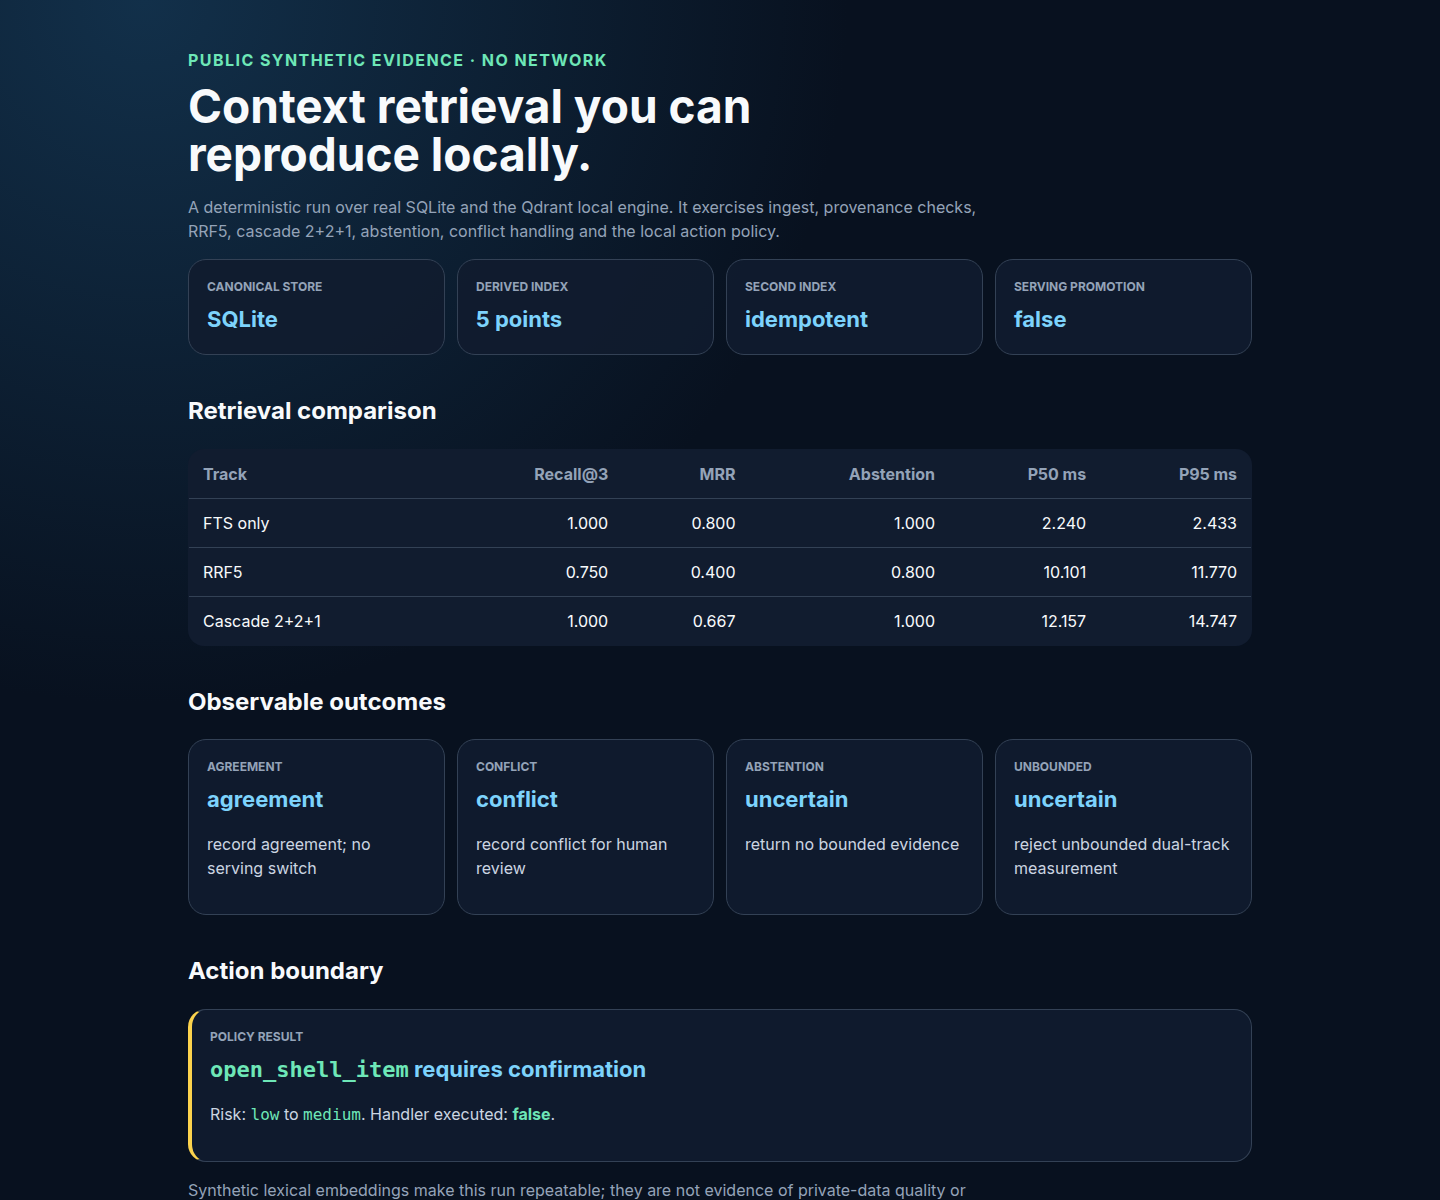
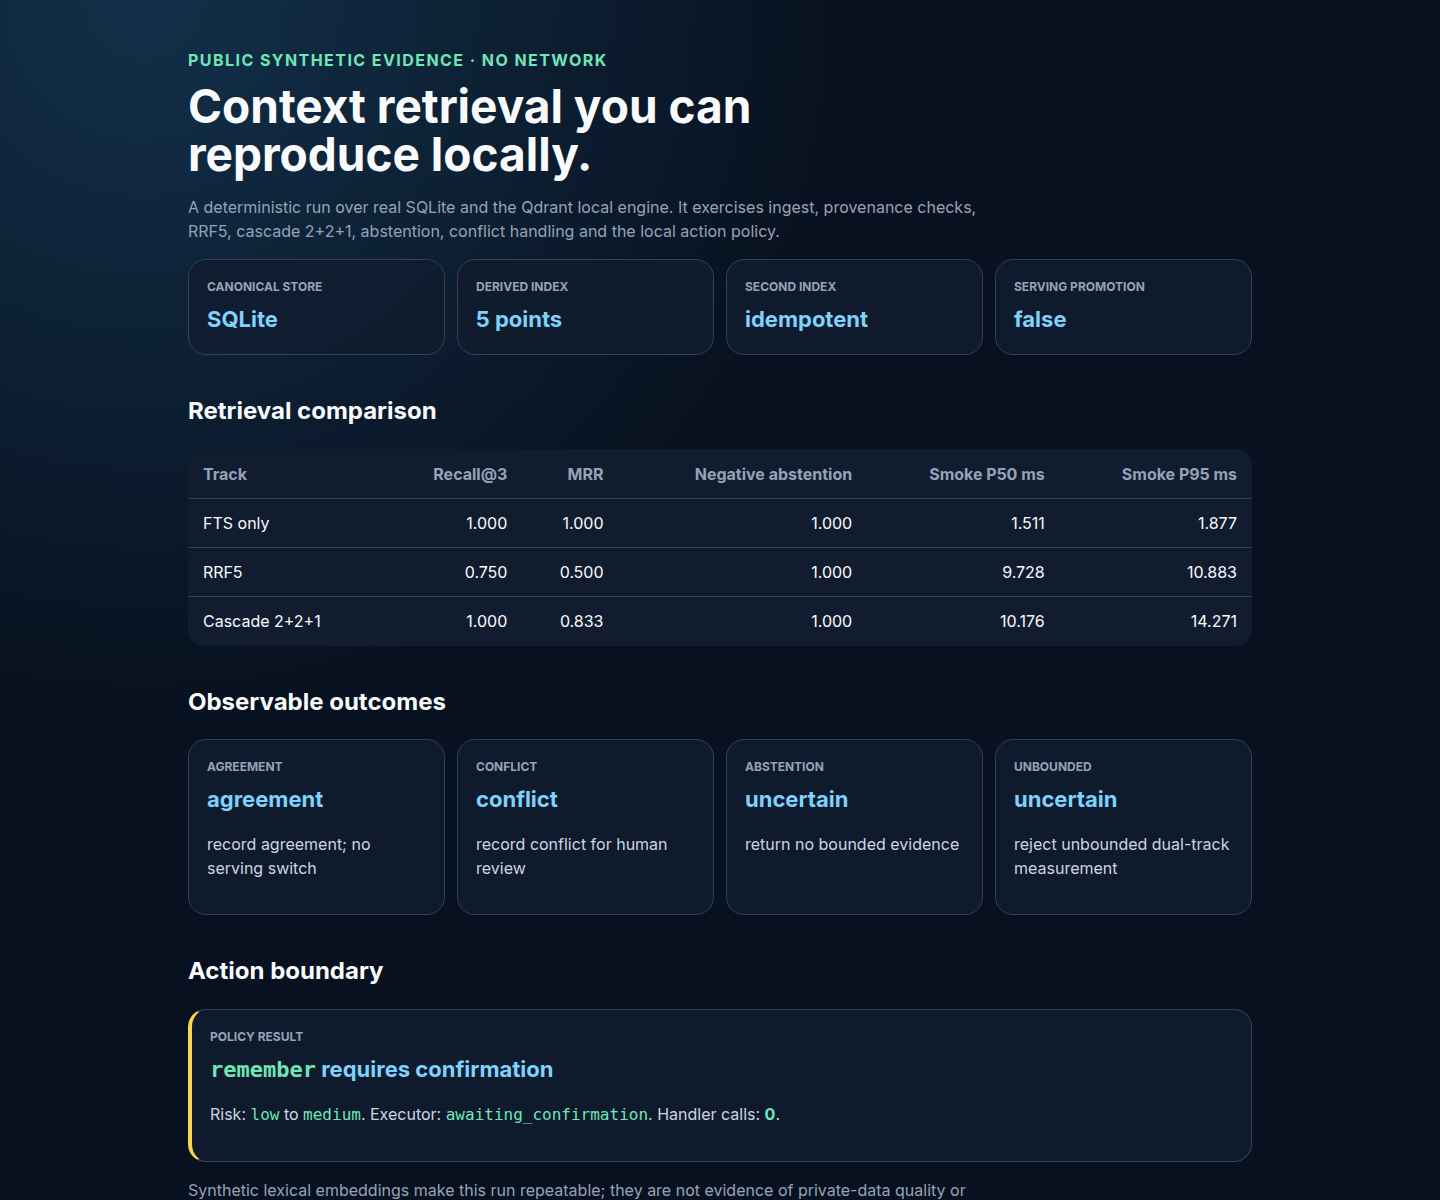
Regenerate reviewed portfolio evidence

diff --git a/docs/evaluation/context-evidence-v1/report.html b/docs/evaluation/context-evidence-v1/report.html
@@ -50,20 +50,22 @@
   <h2>Retrieval comparison</h2>
   <table>
     <thead><tr><th>Track</th><th>Recall@3</th><th>MRR</th>
-      <th>Abstention</th><th>P50 ms</th><th>P95 ms</th></tr></thead>
-    <tbody><tr><td>FTS only</td><td>1.000</td><td>0.800</td><td>1.000</td><td>2.240</td><td>2.433</td></tr><tr><td>RRF5</td><td>0.750</td><td>0.400</td><td>0.800</td><td>10.101</td><td>11.770</td></tr><tr><td>Cascade 2+2+1</td><td>1.000</td><td>0.667</td><td>1.000</td><td>12.157</td><td>14.747</td></tr></tbody>
+      <th>Negative abstention</th><th>Smoke P50 ms</th>
+      <th>Smoke P95 ms</th></tr></thead>
+    <tbody><tr><td>FTS only</td><td>1.000</td><td>1.000</td><td>1.000</td><td>1.511</td><td>1.877</td></tr><tr><td>RRF5</td><td>0.750</td><td>0.500</td><td>1.000</td><td>9.728</td><td>10.883</td></tr><tr><td>Cascade 2+2+1</td><td>1.000</td><td>0.833</td><td>1.000</td><td>10.176</td><td>14.271</td></tr></tbody>
   </table>
   <h2>Observable outcomes</h2>
   <section class="scenarios"><article class="scenario"><span>agreement</span><strong>agreement</strong><p>record agreement; no serving switch</p></article><article class="scenario"><span>conflict</span><strong>conflict</strong><p>record conflict for human review</p></article><article class="scenario"><span>abstention</span><strong>uncertain</strong><p>return no bounded evidence</p></article><article class="scenario"><span>unbounded</span><strong>uncertain</strong><p>reject unbounded dual-track measurement</p></article></section>
   <h2>Action boundary</h2>
   <article class="card boundary">
     <span>Policy result</span>
-    <strong><code>open_shell_item</code> requires confirmation</strong>
+    <strong><code>remember</code> requires confirmation</strong>
     <p>Risk: <code>low</code> to <code>medium</code>.
-      Handler executed: <b class="truth">false</b>.</p>
+      Executor: <code>awaiting_confirmation</code>.
+      Handler calls: <b class="truth">0</b>.</p>
   </article>
   <p class="lede">Synthetic lexical embeddings make this run repeatable; they
     are not evidence of private-data quality or target-hardware latency.
-    Source revision: <code>deb77fe</code>.</p>
+    Source revision: <code>372b642</code>.</p>
 </main></body>
 </html>

diff --git a/tests/test_assets.py b/tests/test_assets.py
@@ -115,7 +115,7 @@ def test_public_context_evidence_is_committed_and_ci_generated() -> None:
         encoding="utf-8"
     )
 
-    assert report["source_revision"] == "deb77fe"
+    assert report["source_revision"] == "372b642"
     assert report["network_used"] is False
     assert report["storage"]["canonical"] == "SQLite"
     assert report["storage"]["derived_index"] == "Qdrant local mode"

diff --git a/docs/evaluation/context-evidence-v1/report.md b/docs/evaluation/context-evidence-v1/report.md
@@ -1,6 +1,6 @@
 # VoiceLoop public context evidence v1
 
-- Source revision: `deb77fe`
+- Source revision: `372b642`
 - Data: public synthetic only
 - Network: not used
 - SQLite events/episodes: 5
@@ -10,11 +10,11 @@
 
 ## Retrieval comparison
 
-| Track | Recall@3 | MRR | Abstention | Provenance | P50 ms | P95 ms |
+| Track | Recall@3 | MRR | Negative abstention | Result provenance | Smoke P50 ms | Smoke P95 ms |
 |---|---:|---:|---:|---:|---:|---:|
-| FTS only | 1.000 | 0.800 | 1.000 | 0.800 | 2.240 | 2.433 |
-| RRF5 | 0.750 | 0.400 | 0.800 | 0.800 | 10.101 | 11.770 |
-| Cascade 2+2+1 | 1.000 | 0.667 | 1.000 | 0.800 | 12.157 | 14.747 |
+| FTS only | 1.000 | 1.000 | 1.000 | 1.000 | 1.511 | 1.877 |
+| RRF5 | 0.750 | 0.500 | 1.000 | 1.000 | 9.728 | 10.883 |
+| Cascade 2+2+1 | 1.000 | 0.833 | 1.000 | 1.000 | 10.176 | 14.271 |
 
 ## Observable outcomes
 
@@ -27,9 +27,11 @@
 
 ## Action boundary
 
-- Proposed action: `open_shell_item`
+- Proposed action: `remember`
 - Risk raised locally: `low` -> `medium`
 - Confirmation required: `true`
+- Executor status: `awaiting_confirmation`
+- Handler calls: `0`
 - Handler executed: `false`
 
 ## Failure analysis
@@ -44,4 +46,5 @@
 - Lexical hash embeddings make the run deterministic; they are not a model benchmark.
 - Qdrant runs in the real qdrant-client local engine, not a network server.
 - Latency is runner-specific and must not be generalized to target Windows hardware.
+- Agreement means the same top canonical episode version; the remaining ranked lists may differ.
 - The arbiter remains shadow-only and cannot authorize an action.
